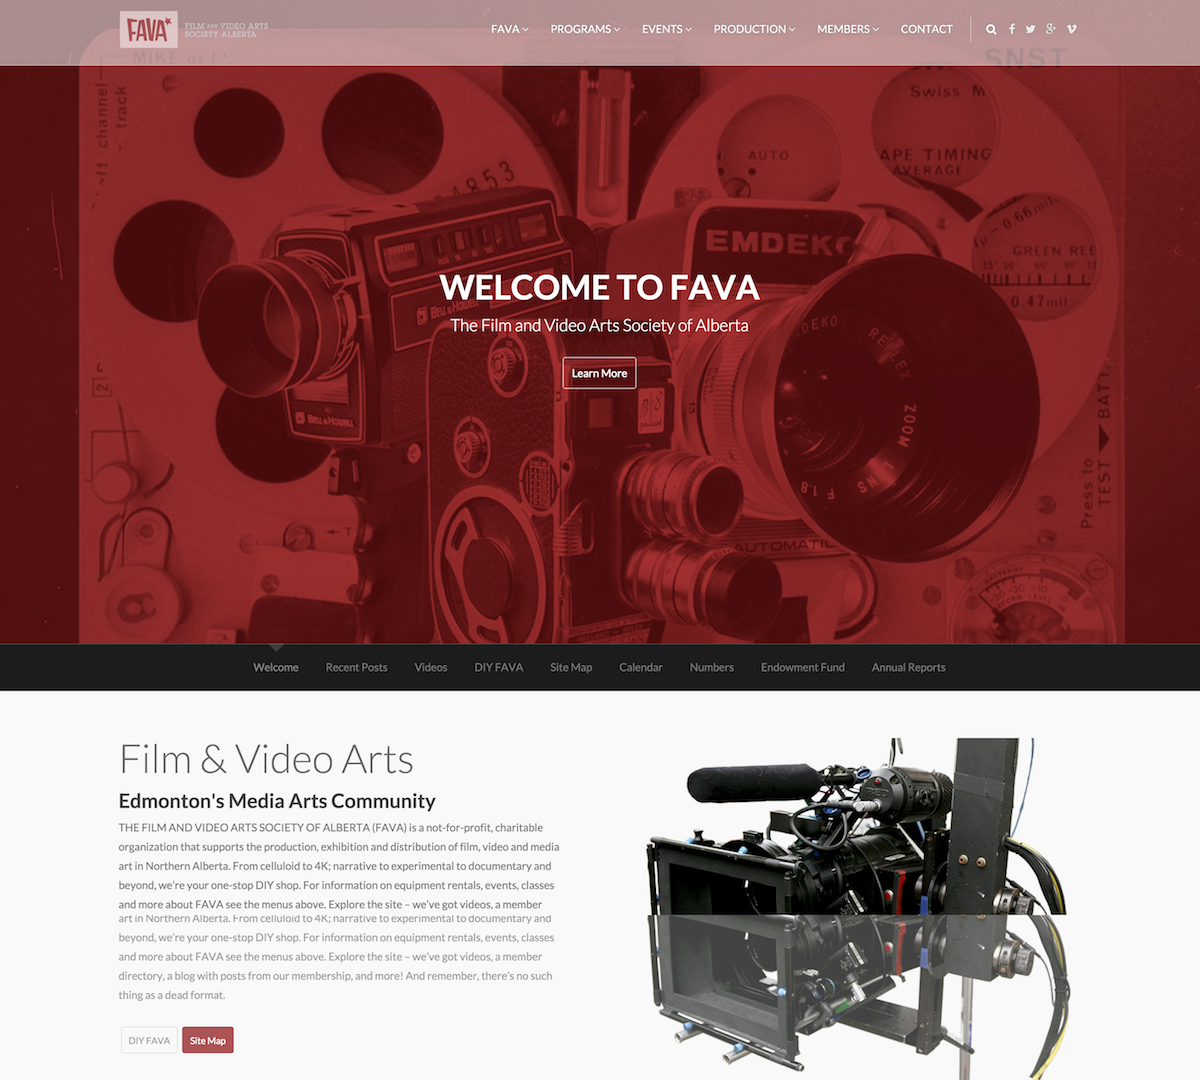
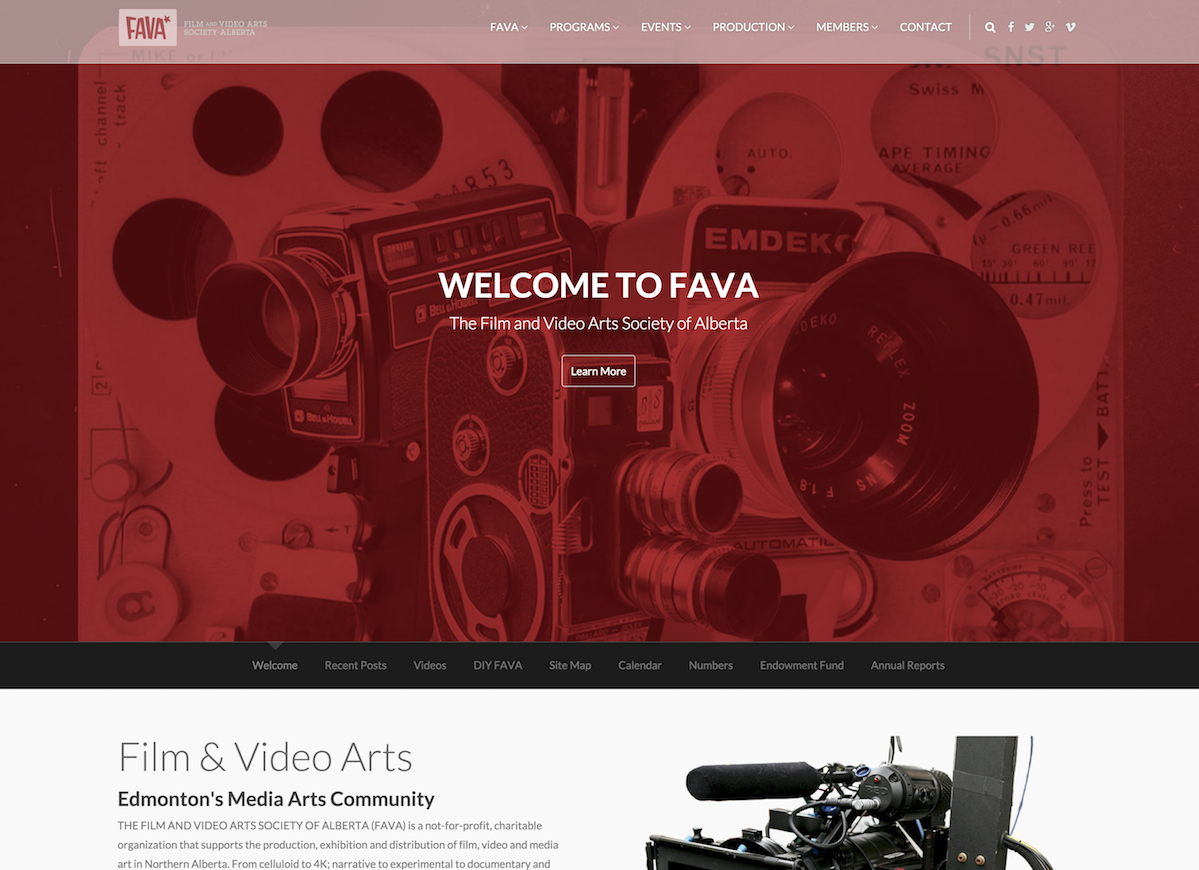
fava added

diff --git a/portfolio/fava.html b/portfolio/fava.html
@@ -1,11 +1,11 @@
 ---
 layout: default
-title: Athletrak | Inkoop | Ruby on Rails Developer Consultancy Requirement Bangalore
+title: FAVA | Inkoop | Ruby on Rails Developer Consultancy Requirement Bangalore
 description: Request a quote on your Ruby on Rails Project
 ---
 
 <!-- HERO -->
-<section id="hero" class="module-hero bg-black-alfa-40 color-white parallax" data-background="/images/portfolio/athletrak/1.png">
+<section id="hero" class="module-hero bg-black-alfa-40 color-white parallax" data-background="/images/portfolio/fava/1.png">
 
   <!-- HERO TEXT -->
   <div class="hero-caption">
@@ -15,7 +15,7 @@ description: Request a quote on your Ruby on Rails Project
 
         <div class="row">
           <div class="col-sm-12 text-center">
-            <h1 class="text-uppercase text-xl montserrat m-0">Athletrak</h1>
+            <h1 class="text-uppercase text-xl montserrat m-0">FAVA</h1>
           </div>
         </div>
 
@@ -36,9 +36,10 @@ description: Request a quote on your Ruby on Rails Project
       <div class="col-sm-12">
         <p>
           <div class="image-slider" data-carousel-options='{"transitionStyle": "fadeUp"}'>
-            <img src="/images/portfolio/athletrak/1.png" alt="">
-            <img src="/images/portfolio/athletrak/1.png" alt="">
-            <img src="/images/portfolio/athletrak/1.png" alt="">
+            <img src="/images/portfolio/fava/1.png" alt="">
+            <img src="/images/portfolio/fava/2.png" alt="">
+            <img src="/images/portfolio/fava/3.png" alt="">
+            <img src="/images/portfolio/fava/4.png" alt="">
           </div>
         </p>
       </div>
@@ -48,9 +49,9 @@ description: Request a quote on your Ruby on Rails Project
 
       <div class="col-sm-4">
         <ul class="portfolio-info">
-          <li><h5>Client:</h5><span>Athletrak</span></li>
+          <li><h5>Client:</h5><span>FAVA</span></li>
           <li><h5>Development hours:</h5><span>800</span></li>
-          <li><h5>Technologies:</h5>Ruby on Rails, HTML, CSS, Mailboxer, Sidekiq</li>
+          <li><h5>Technologies:</h5>Ruby on Rails, HTML, CSS, Sidekiq</li>
         </ul>
       </div>
 
